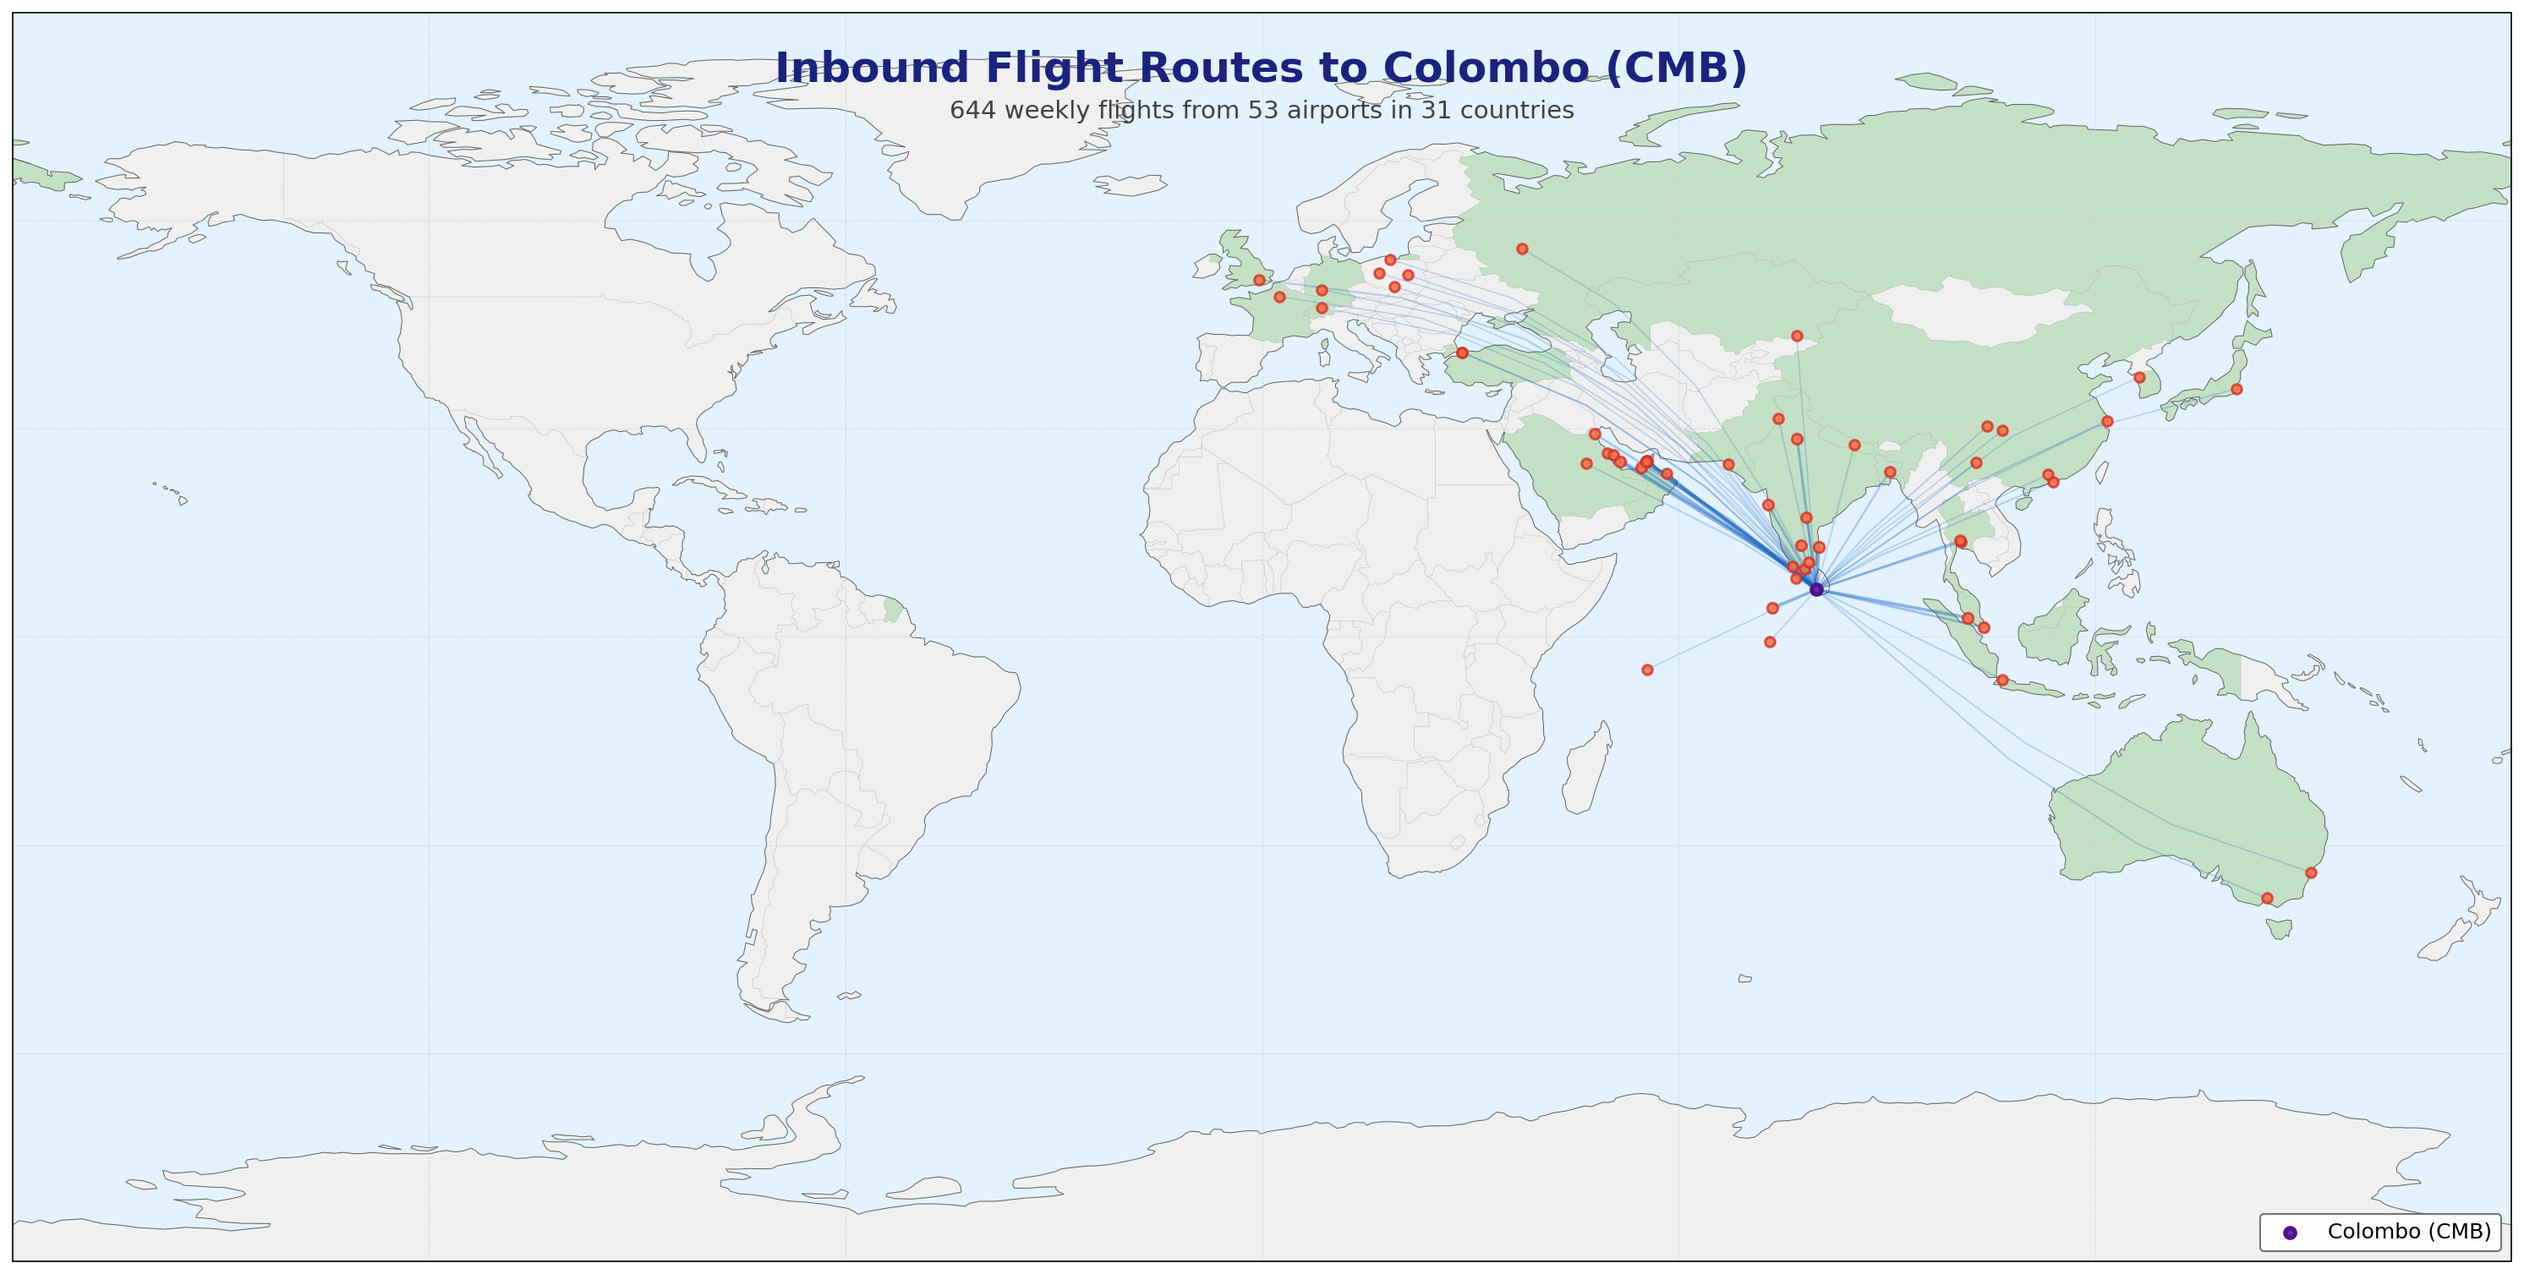
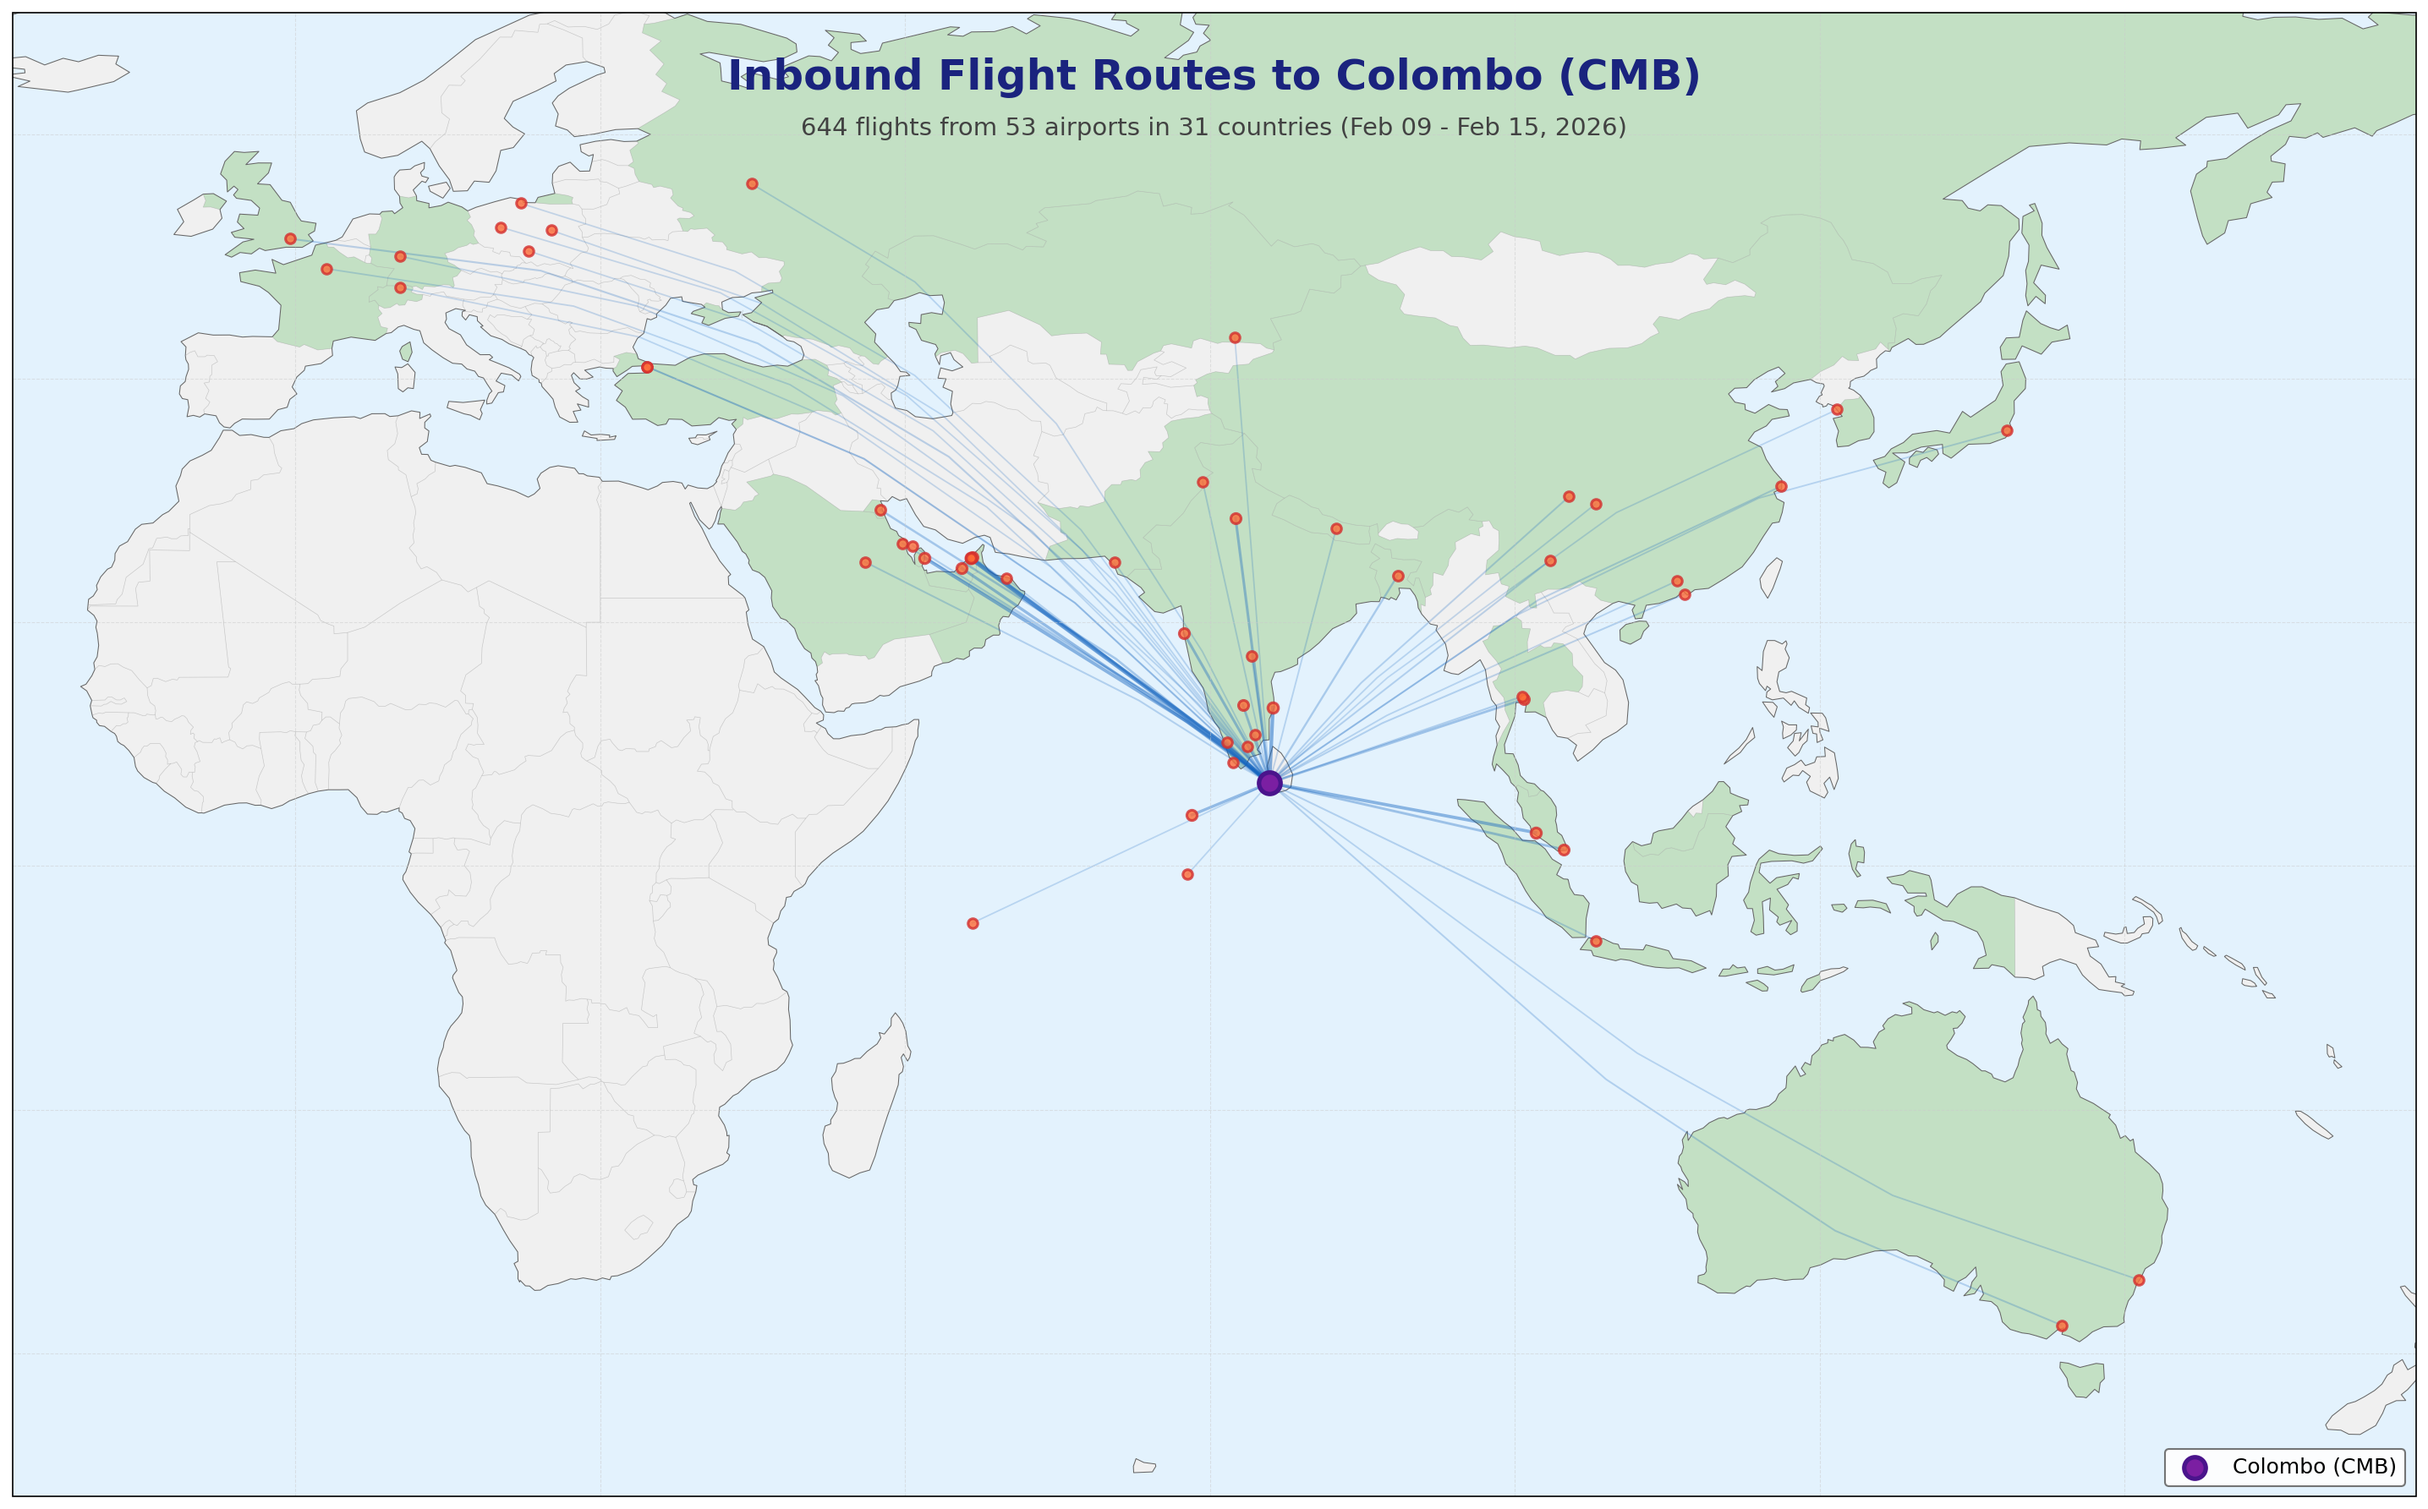
fix: Update README with latest flight data and add countries table

diff --git a/README.md b/README.md
@@ -1,10 +1,6 @@
 # Air Travel in 🇱🇰 Sri Lanka (lk_air_travel)
 
-<<<<<<< HEAD
-![LastUpdated](https://img.shields.io/badge/last_updated-2026--02--11_18:40:37-green)
-=======
-![LastUpdated](https://img.shields.io/badge/last_updated-2026--02--11_18:42:31-green)
->>>>>>> f8e9a25 (fix: Update README and flight map visualization for improved clarity and accuracy)
+![LastUpdated](https://img.shields.io/badge/last_updated-2026--02--11_18:45:55-green)
 
 ![Flight Map](images/flight_map.png)
 
@@ -39,6 +35,7 @@ Each flight record includes:
 
 - **644** total flights
 - **53** origins
+- **31** countries
 - **29** airlines
 
 ## Airlines
@@ -74,6 +71,42 @@ Each flight record includes:
 | Air Seychelles | 2 |
 | Air Astana | 2 |
 | Edelweiss Air | 2 |
+
+## Countries
+
+| Country | Flights |
+|---------|---------------|
+| 🇮🇳 India | 166 |
+| 🇦🇪 United Arab Emirates | 117 |
+| 🇶🇦 Qatar | 42 |
+| 🇲🇾 Malaysia | 40 |
+| 🇲🇻 Maldives | 34 |
+| 🇹🇭 Thailand | 33 |
+| 🇨🇳 China | 28 |
+| 🇸🇬 Singapore | 24 |
+| 🇰🇼 Kuwait | 18 |
+| 🇧🇩 Bangladesh | 14 |
+| 🇸🇦 Saudi Arabia | 14 |
+| 🇦🇪 United Arab Emirates/Maldives | 14 |
+| 🇦🇺 Australia | 11 |
+| 🇹🇷 Turkey | 10 |
+| 🇬🇧 United Kingdom | 9 |
+| 🇧🇭 Bahrain/Maldives | 9 |
+| 🇵🇱 Poland/UAE | 8 |
+| 🇵🇰 Pakistan | 8 |
+| 🇮🇩 Indonesia | 7 |
+| 🇭🇰 Hong Kong | 7 |
+| 🇴🇲 Oman | 5 |
+| 🇳🇵 Nepal | 4 |
+| 🇯🇵 Japan | 4 |
+| 🇫🇷 France | 3 |
+| 🇩🇪 Germany | 3 |
+| 🇷🇺 Russia | 3 |
+| 🇸🇨 Seychelles | 2 |
+| 🇰🇿 Kazakhstan | 2 |
+| 🇰🇷 South Korea | 2 |
+| 🇨🇭 Switzerland | 2 |
+| 🇹🇷 Turkey/India | 1 |
 
 ## Inbound Locations
 
